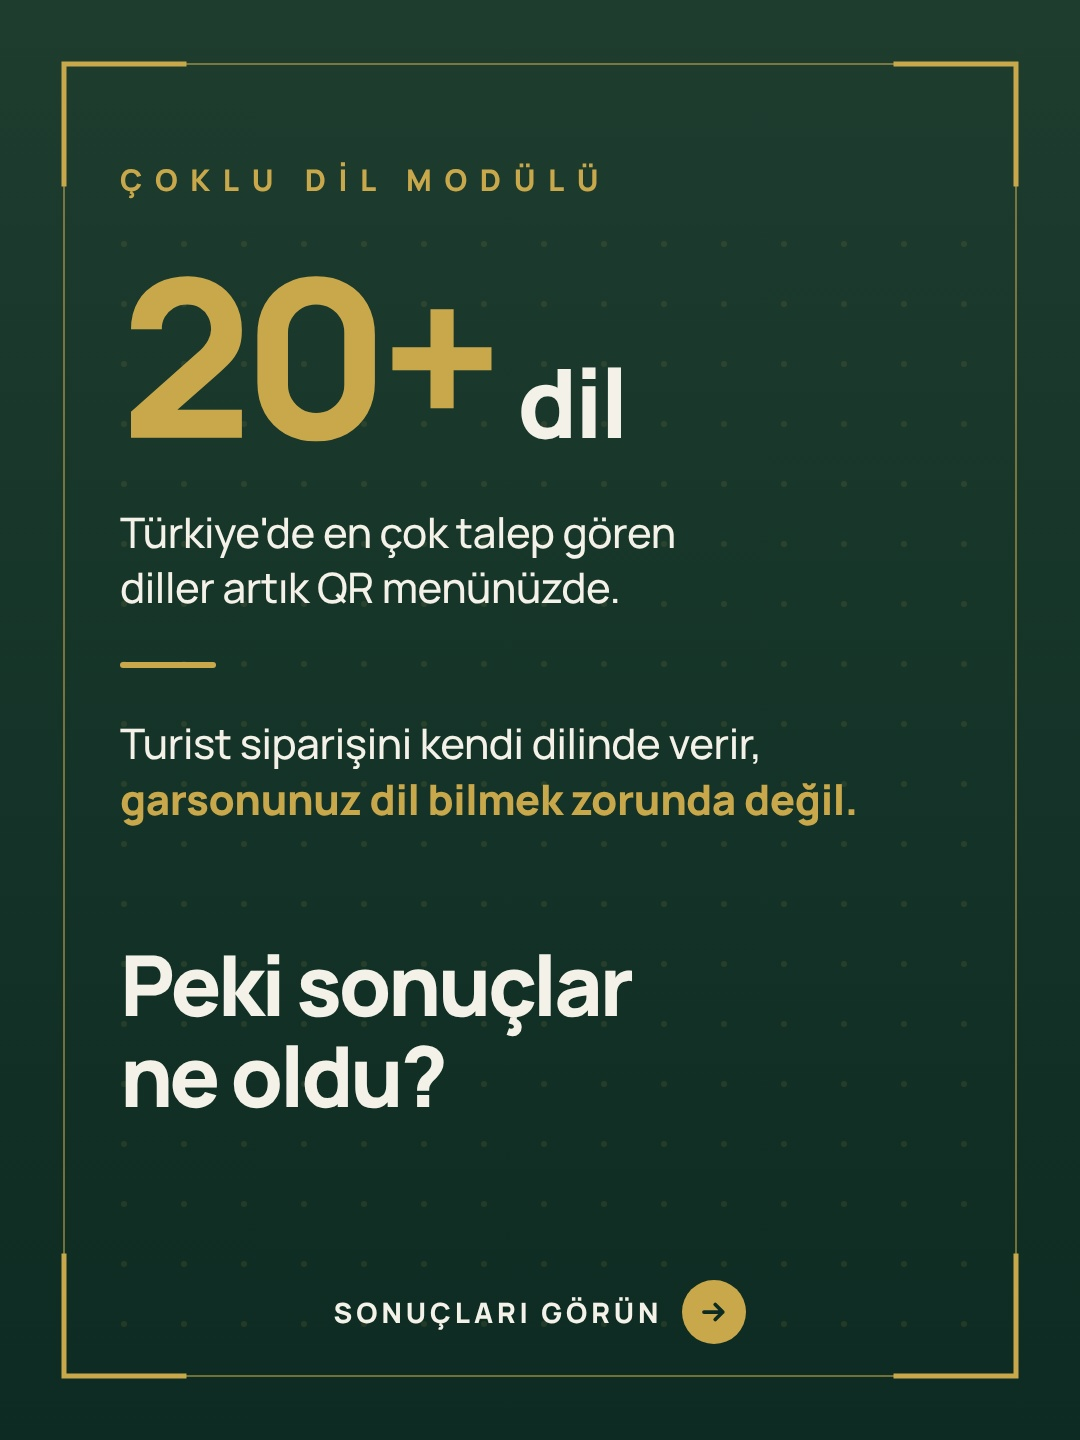
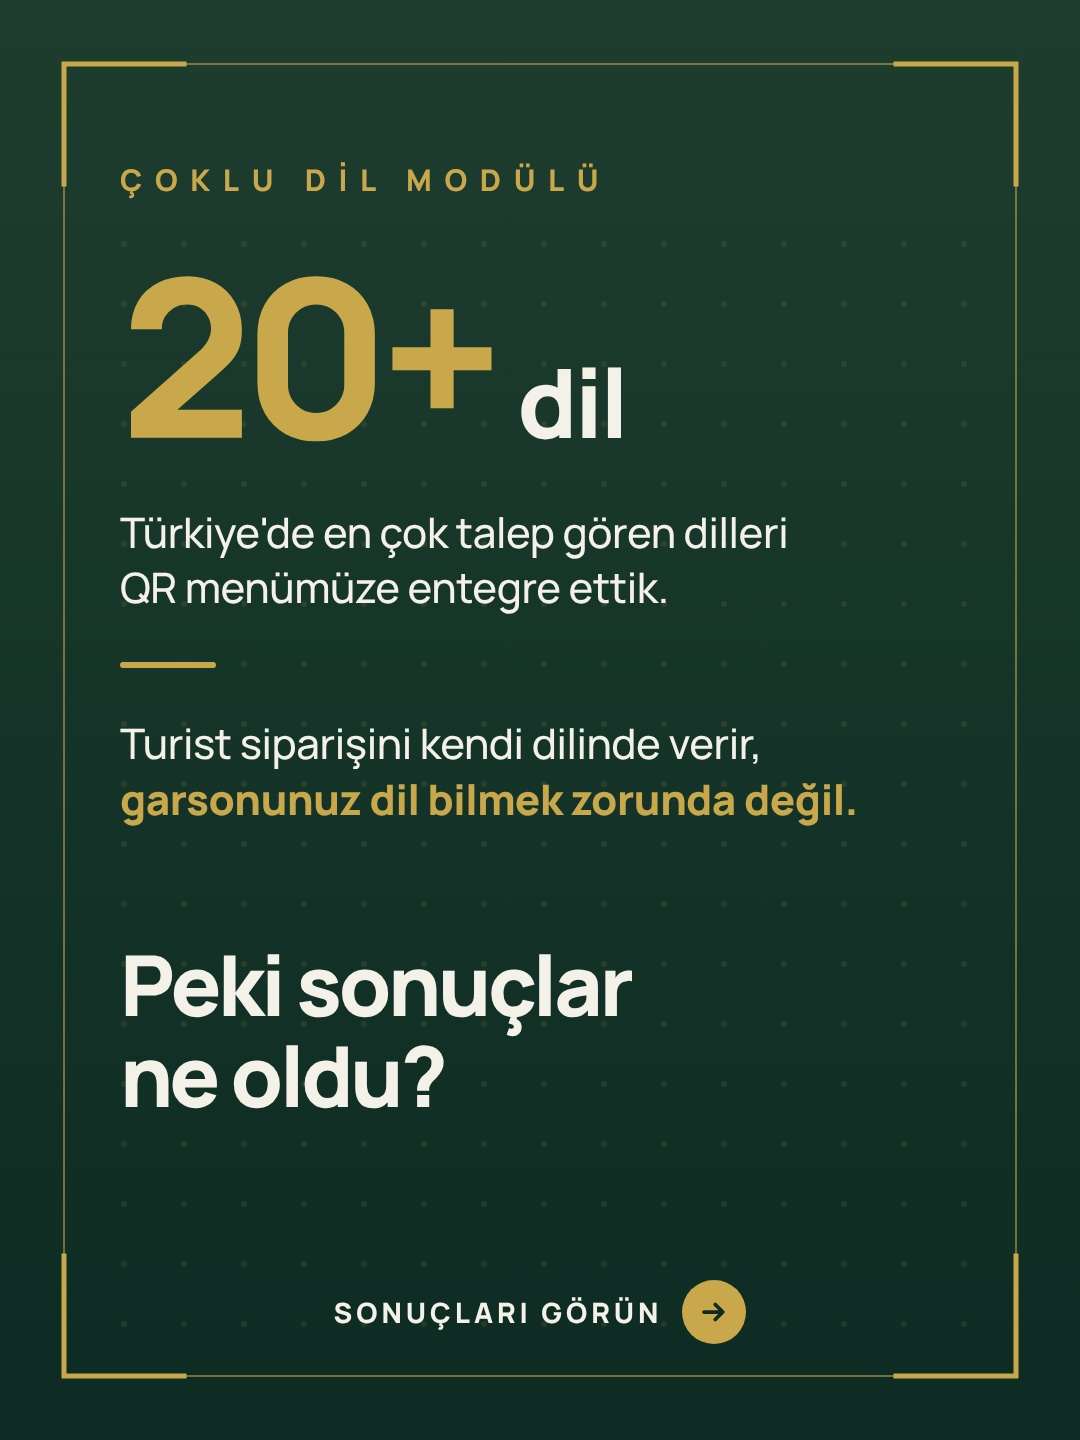
Carousel: slayt 3 'entegre ettik' geri; slayt 4 fiil birliği
Claude-Session: https://claude.ai/code/session_01FBw9rVwrniVjyFvtgVdFXq

Changed region(s): [[0.1222, 0.375, 0.6111, 0.4375], [0.6417, 0.3438, 0.7333, 0.4062]]

diff --git a/analiz/carousel-dil/carousel-v6.html b/analiz/carousel-dil/carousel-v6.html
@@ -188,7 +188,7 @@ const SL={
 3:{bg:'krem',html:()=>`<div class="lab left" style="font-size:30px;padding-top:34px">ÇOKLU DİL MODÜLÜ</div>
  <div class="area top" style="top:231px;bottom:240px">
   <div class="hero"><span class="big">20+</span><span class="unit">dil</span></div>
-  <div class="p3" id="P3">${L(["Türkiye'de en çok talep gören","diller artık QR menünüzde."])}</div>
+  <div class="p3" id="P3">${L(["Türkiye'de en çok talep gören dilleri","QR menümüze entegre ettik."])}</div>
   <div class="rule" style="margin:48px 0"></div>
   <div class="p4" id="P4">${L(['Turist siparişini kendi dilinde verir,','{{garsonunuz dil bilmek zorunda değil.}}'])}</div>
   <div class="h" id="H" data-max="84" data-min="68" style="margin-top:112px">${L(["Peki sonuçlar",'ne oldu?'])}</div>
@@ -196,9 +196,9 @@ const SL={
 4:{bg:'krem',html:()=>`<div class="lab left" style="font-size:30px;padding-top:34px">ÇOKLU DİL MODÜLÜ</div>
  <div class="area top s4" style="top:250px;bottom:260px"><div class="h" id="H" data-max="76" data-min="64">${L(['[[Sonuçlar]]'])}</div>
  <div class="tbl">
-  <div class="tr big"><div class="c1">%60</div><div class="c2t">Yabancı masalardan<br><b>daha fazla satış.</b></div></div>
-  <div class="tr big"><div class="c1">%40</div><div class="c2t">Sipariş süresi<br><b>daha kısa.</b></div></div>
-  <div class="tr big"><div class="c1">%87</div><div class="c2t">Memnun turistlerin<br><b>tekrar gelme oranı.</b></div></div>
+  <div class="tr big"><div class="c1">%60</div><div class="c2t">Yabancı masalardan<br><b>daha fazla satış alındı.</b></div></div>
+  <div class="tr big"><div class="c1">%40</div><div class="c2t">Sipariş süresi<br><b>kısaldı.</b></div></div>
+  <div class="tr big"><div class="c1">%87</div><div class="c2t">Memnun kalan turistler<br><b>tekrar geldi.</b></div></div>
   <div class="tk"><i>${CHK}</i><div class="c2t">Yanlış anlaşılan sipariş <b>bitti.</b></div></div>
   <div class="tk"><i>${CHK}</i><div class="c2t">Garsonların <b>yükü azaldı.</b></div></div>
  </div></div>${nx('Nasıl başlarsınız?','#F4F1E8')}`},

diff --git a/tools/ig-carousel/referans-coklu-dil.html b/tools/ig-carousel/referans-coklu-dil.html
@@ -188,7 +188,7 @@ const SL={
 3:{bg:'krem',html:()=>`<div class="lab left" style="font-size:30px;padding-top:34px">ÇOKLU DİL MODÜLÜ</div>
  <div class="area top" style="top:231px;bottom:240px">
   <div class="hero"><span class="big">20+</span><span class="unit">dil</span></div>
-  <div class="p3" id="P3">${L(["Türkiye'de en çok talep gören","diller artık QR menünüzde."])}</div>
+  <div class="p3" id="P3">${L(["Türkiye'de en çok talep gören dilleri","QR menümüze entegre ettik."])}</div>
   <div class="rule" style="margin:48px 0"></div>
   <div class="p4" id="P4">${L(['Turist siparişini kendi dilinde verir,','{{garsonunuz dil bilmek zorunda değil.}}'])}</div>
   <div class="h" id="H" data-max="84" data-min="68" style="margin-top:112px">${L(["Peki sonuçlar",'ne oldu?'])}</div>
@@ -196,9 +196,9 @@ const SL={
 4:{bg:'krem',html:()=>`<div class="lab left" style="font-size:30px;padding-top:34px">ÇOKLU DİL MODÜLÜ</div>
  <div class="area top s4" style="top:250px;bottom:260px"><div class="h" id="H" data-max="76" data-min="64">${L(['[[Sonuçlar]]'])}</div>
  <div class="tbl">
-  <div class="tr big"><div class="c1">%60</div><div class="c2t">Yabancı masalardan<br><b>daha fazla satış.</b></div></div>
-  <div class="tr big"><div class="c1">%40</div><div class="c2t">Sipariş süresi<br><b>daha kısa.</b></div></div>
-  <div class="tr big"><div class="c1">%87</div><div class="c2t">Memnun turistlerin<br><b>tekrar gelme oranı.</b></div></div>
+  <div class="tr big"><div class="c1">%60</div><div class="c2t">Yabancı masalardan<br><b>daha fazla satış alındı.</b></div></div>
+  <div class="tr big"><div class="c1">%40</div><div class="c2t">Sipariş süresi<br><b>kısaldı.</b></div></div>
+  <div class="tr big"><div class="c1">%87</div><div class="c2t">Memnun kalan turistler<br><b>tekrar geldi.</b></div></div>
   <div class="tk"><i>${CHK}</i><div class="c2t">Yanlış anlaşılan sipariş <b>bitti.</b></div></div>
   <div class="tk"><i>${CHK}</i><div class="c2t">Garsonların <b>yükü azaldı.</b></div></div>
  </div></div>${nx('Nasıl başlarsınız?','#F4F1E8')}`},
